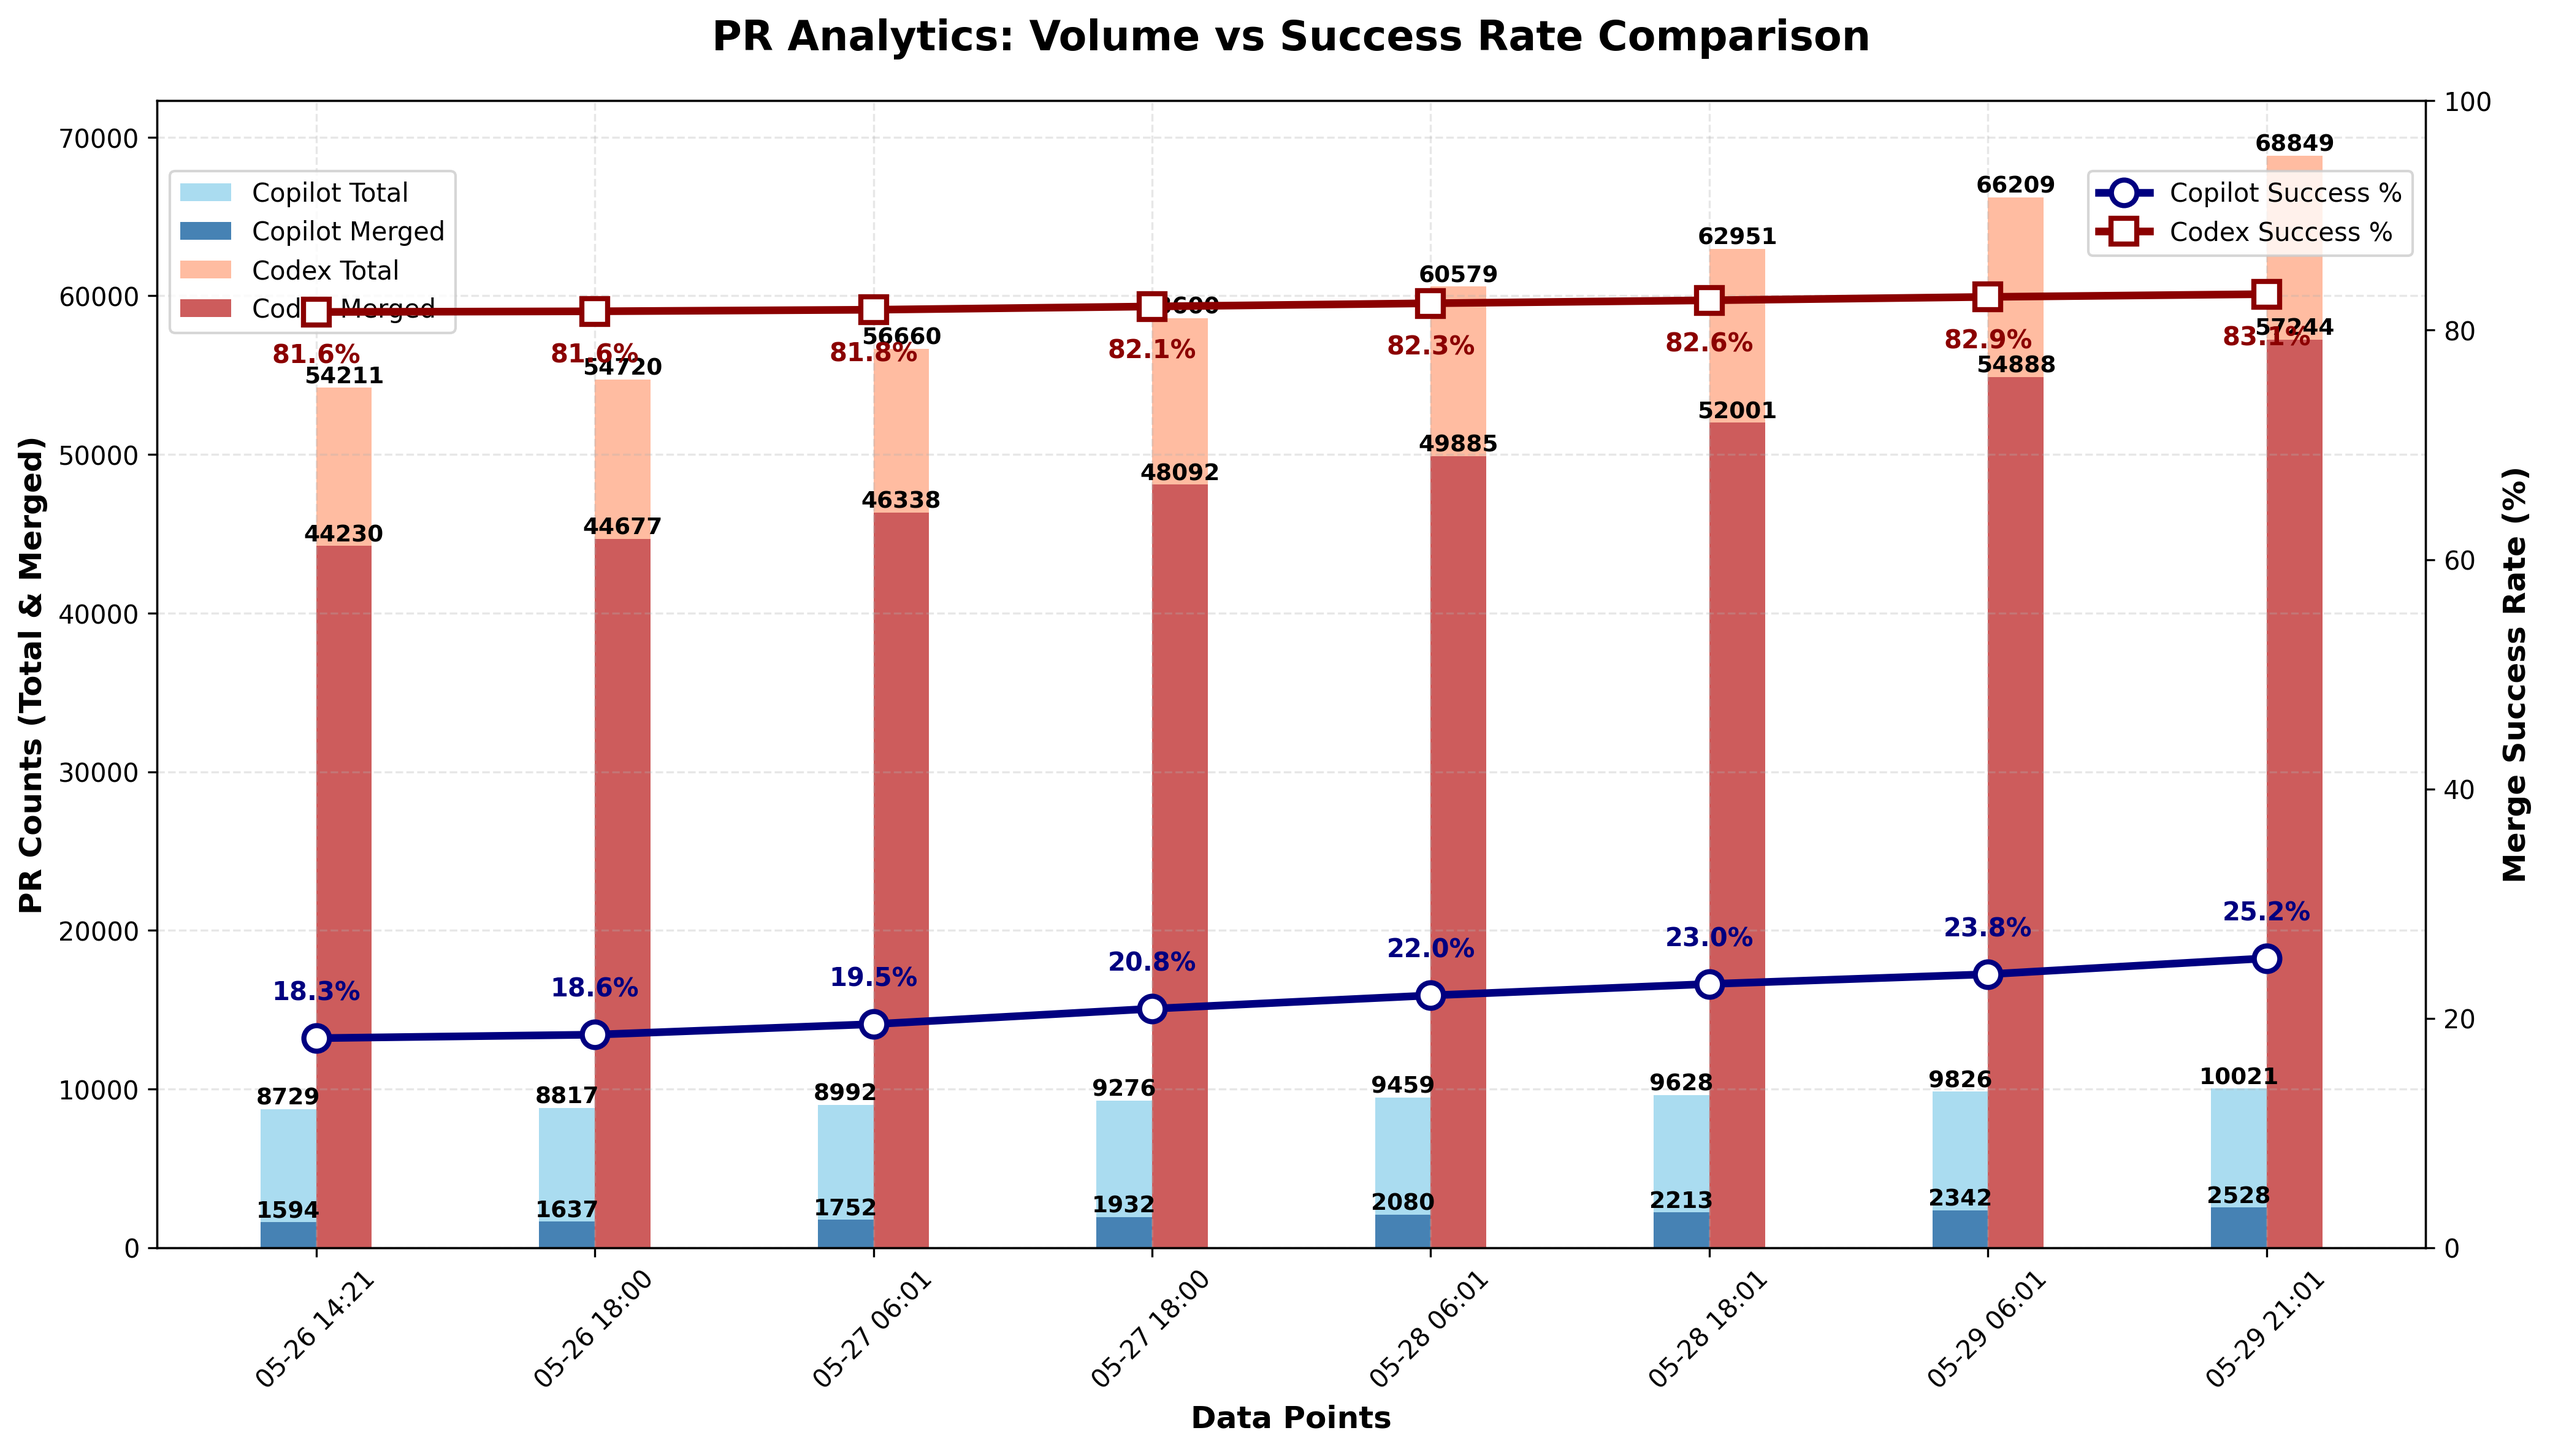
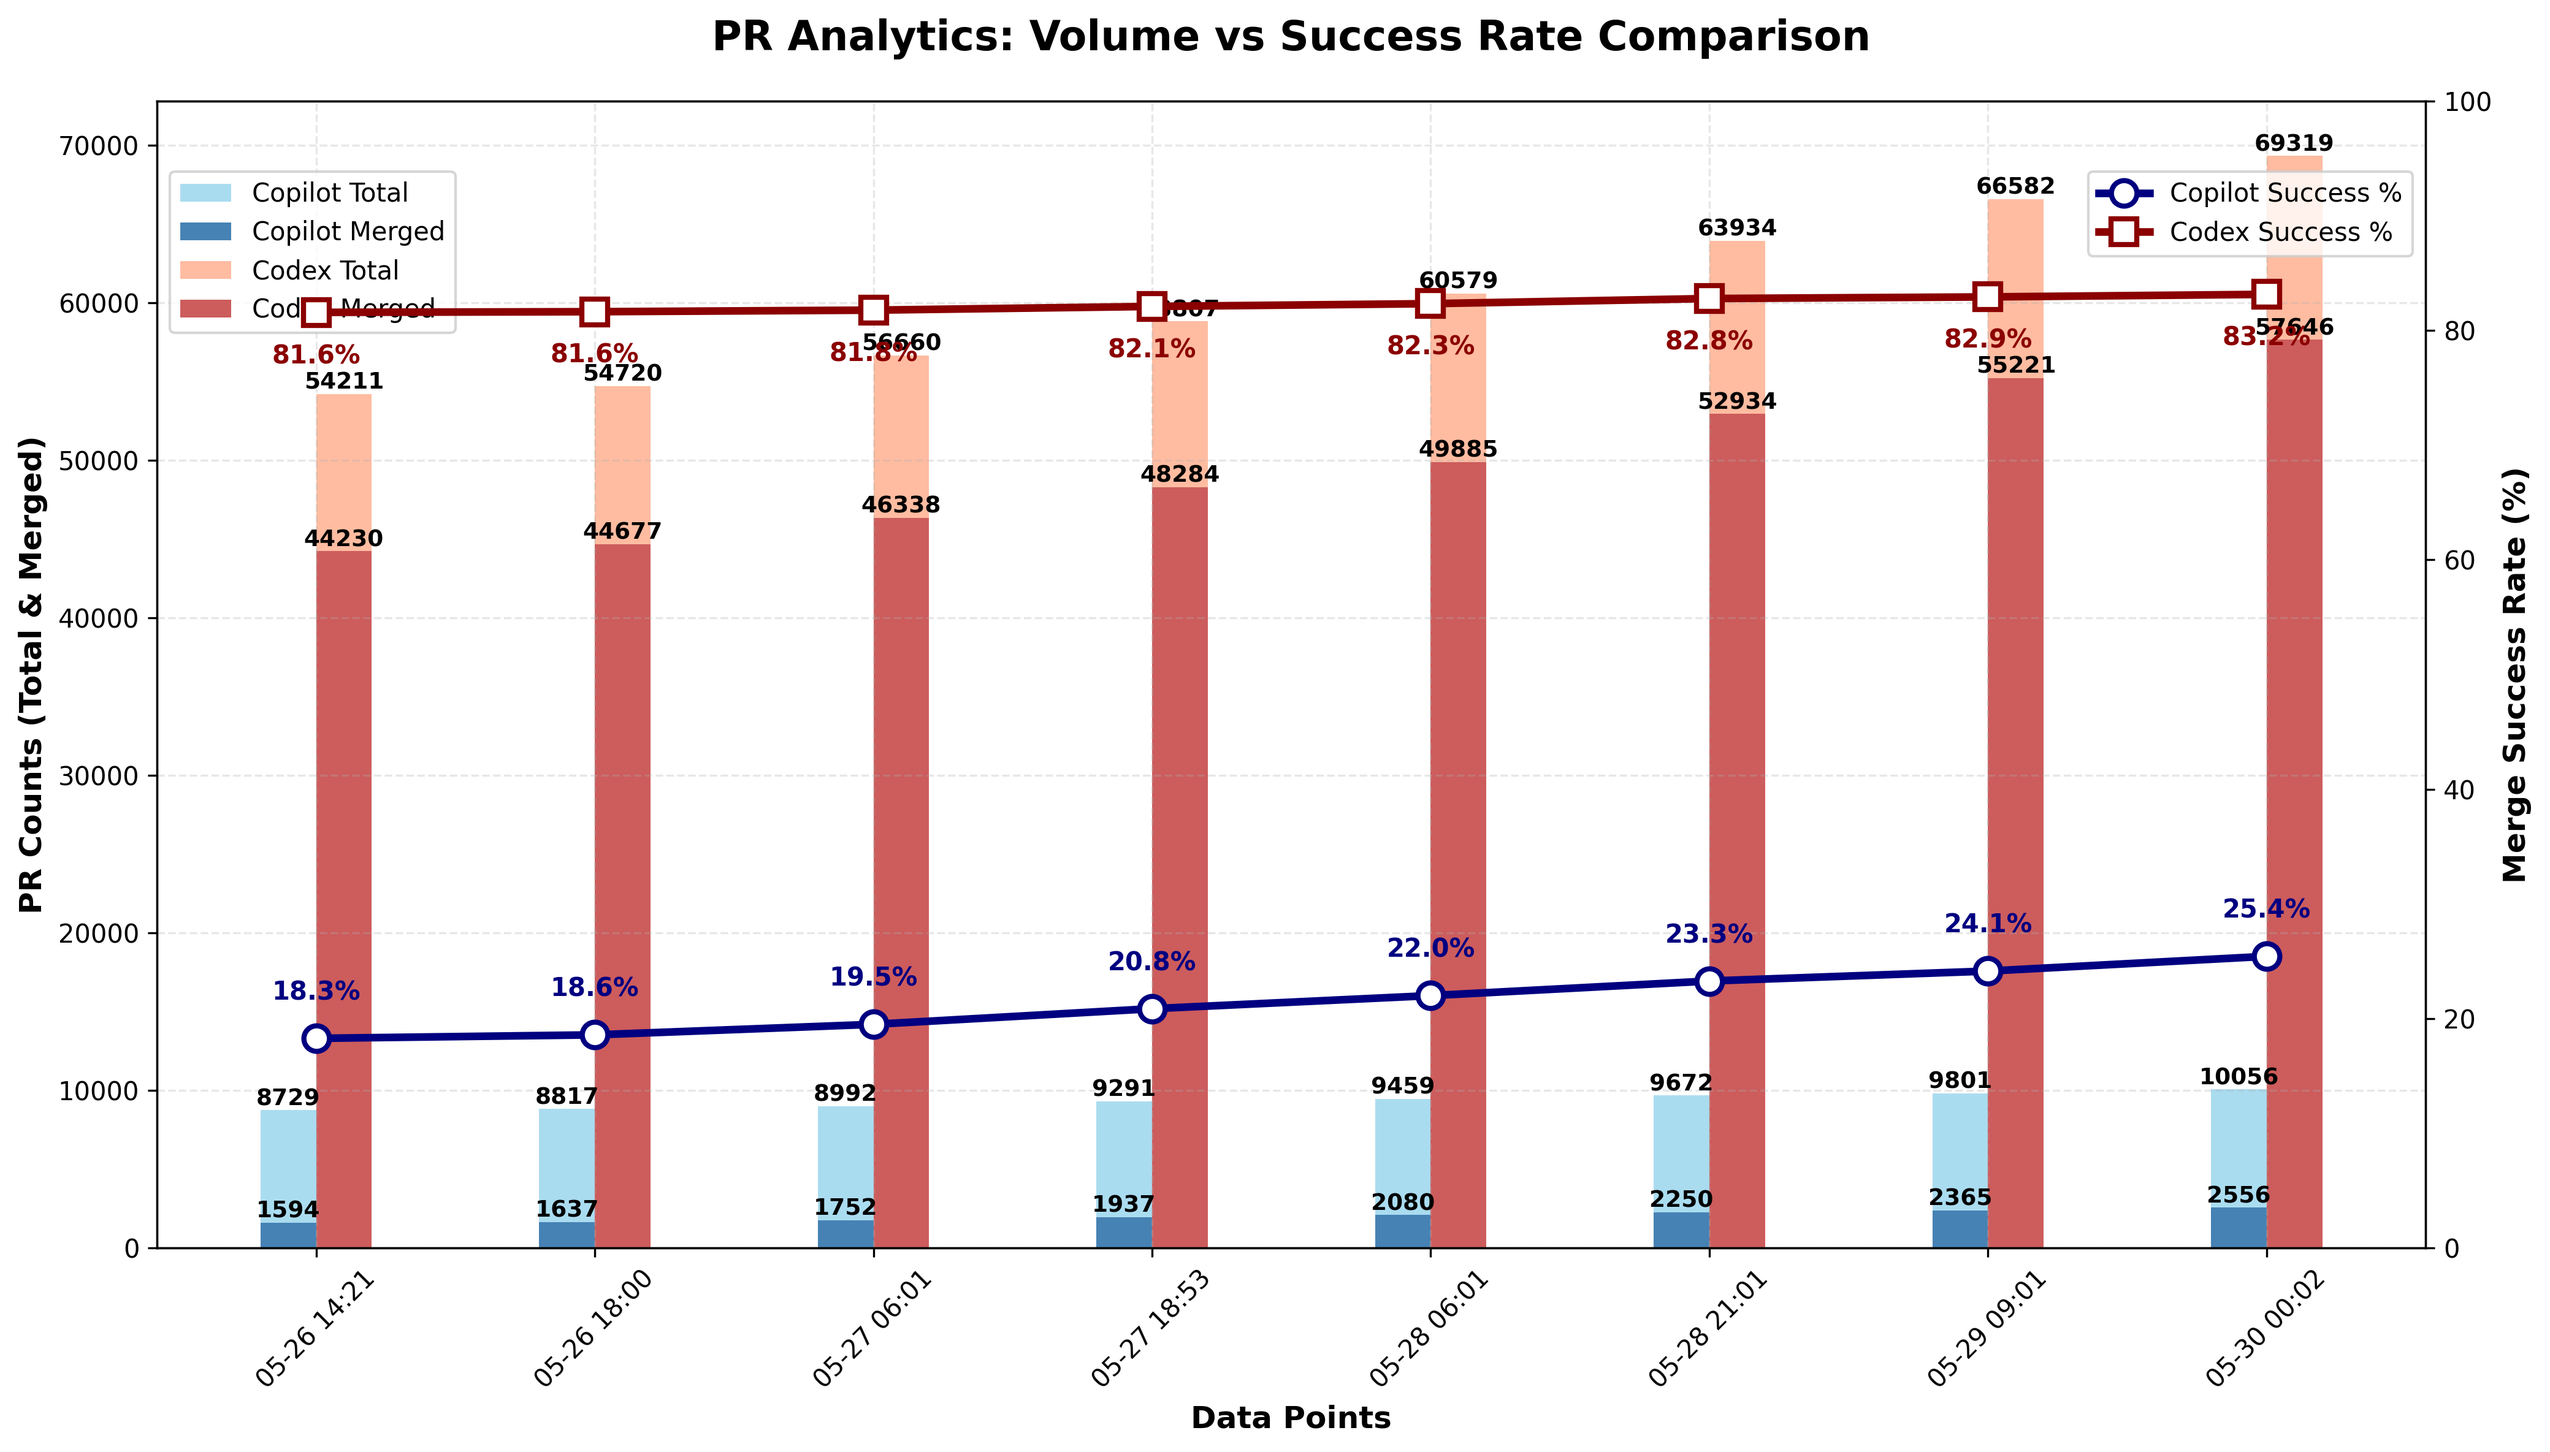
chore: update PR‑approval chart

diff --git a/docs/index.html b/docs/index.html
@@ -44,22 +44,22 @@
                 <tbody>
                     <tr>
                         <td>Copilot</td>
-                        <td>10,021</td>
-                        <td>2,528</td>
-                        <td>25.23%</td>
+                        <td>10,056</td>
+                        <td>2,556</td>
+                        <td>25.42%</td>
                     </tr>
                     <tr>
                         <td>Codex</td>
-                        <td>68,849</td>
-                        <td>57,244</td>
-                        <td>83.14%</td>
+                        <td>69,319</td>
+                        <td>57,646</td>
+                        <td>83.16%</td>
                     </tr>
                 </tbody>
             </table>
         </section>
 
         <footer>
-            <p>Last updated: <span id="last-updated">May 29, 2025 21:01 UTC</span></p>
+            <p>Last updated: <span id="last-updated">May 30, 2025 00:02 UTC</span></p>
             <p><a href="https://github.com/aavetis/ai-pr-watcher">View on GitHub</a></p>
         </footer>
     </div>

diff --git a/README.md b/README.md
@@ -19,5 +19,5 @@ Explore the GitHub search queries used:
 
 | Project | Total PRs | Merged PRs | Merge Rate |
 | ------- | --------- | ---------- | ---------- |
-| Copilot | 10,021 | 2,528 | 25.23% |
-| Codex   | 68,849 | 57,244 | 83.14% |
+| Copilot | 10,056 | 2,556 | 25.42% |
+| Codex   | 69,319 | 57,646 | 83.16% |
